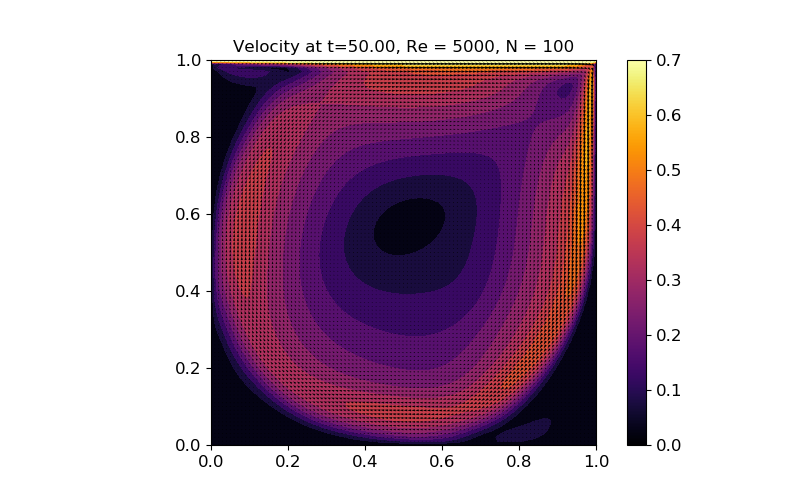
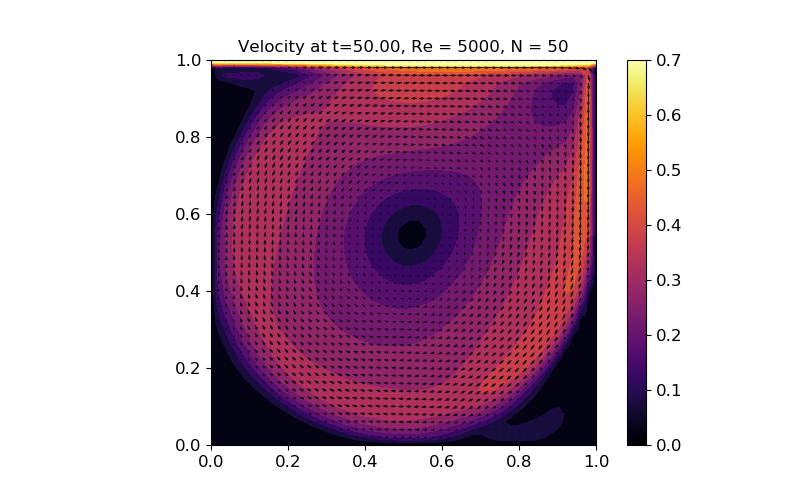
Changed plots from python to match with openfoam

Changed region(s): [[0.25, 0.06, 0.75, 0.9]]

diff --git a/python/main.py b/python/main.py
@@ -29,13 +29,16 @@ from src import tic, toc
 anim = False  # Save animation
 
 
-Re = 100000
+Pr = 0.71
+Re = 100
+# Ri = 0. 
 dt = 0.001
 Tf = 50
 Lx = 1.
 Ly = 1.
 Nx = 50
 Ny = 50
+namp = 0.
 ig = 20
 
 #%% Discretization in space and time, and definition of boundary conditions
@@ -57,6 +60,9 @@ uW = avg(y)*0;  uW = uW[np.newaxis,:];       vW = y*0;  vW = vW[np.newaxis,:];
 uE = avg(y)*0;  uE = uE[np.newaxis,:];       vE = y*0;    vE = vE[np.newaxis,:];
 
 
+
+tN = 100; tS = 10
+
 #%% Pressure correction and pressure Poisson equation
 
 # Compute system matrices for pressure 
@@ -73,6 +79,9 @@ Lps_lu = splu(Lp)
 U = np.zeros((Nx-1,Ny))
 V = np.zeros((Nx,Ny-1))
 
+T = 0.5 + \
+    namp*(np.random.rand(Nx,Ny)-0.5); 
+
 #%% Main time-integration loop. Write output file "cavity.mp" if
 
 if (ig>0) and anim:
@@ -85,7 +94,7 @@ if (ig>0) and anim:
 tic()
 
 #Define probe
-cases = [100000]
+cases = [25,250,5000]
 uvel = np.zeros((Nit+1, len(cases)))
 
 for i, Re in enumerate(cases):
@@ -156,22 +165,22 @@ for i, Re in enumerate(cases):
 
     if (ig>0) and anim:
         writer.finish()
+    #%% Visualization of the flow fiels at the end time
 
-#%% Visualization of the flow fiels at the end time
+    Ua = np.hstack( (uS,avg(np.vstack((uW,U,uE)),1),uN));
+    Va = np.vstack((vW,avg(np.hstack((vS,V,
+                                        vN)),0),vE));
+    plt.figure()
+    normalizer = matplotlib.colors.Normalize(0,0.7)
+    plt.contourf(x,y,np.sqrt(Ua**2+Va**2).T,20,norm = normalizer, cmap = "inferno")
+    plt.quiver(x,y,Ua.T,Va.T,norm = normalizer, cmap = "inferno")
+    #plt.scatter(x[int(Nx/2)], y[int(Ny/2)], color='red') 
+    plt.gca().set_aspect(1.)
+    plt.colorbar(norm = normalizer, cmap = "inferno")
+    plt.title(f'Velocity at t={k*dt:.2f}, Re = {Re}, N = {Nx}')
+    plt.savefig(f'velocity_RE{Re}.png')
 
-Ua = np.hstack( (uS,avg(np.vstack((uW,U,uE)),1),uN));
-Va = np.vstack((vW,avg(np.hstack((vS,V,
-                                  vN)),0),vE));
-plt.figure()
-normalizer = matplotlib.colors.Normalize(0,0.7)
-plt.contourf(x,y,np.sqrt(Ua**2+Va**2).T,20,norm = normalizer, cmap = "inferno")
-plt.quiver(x,y,Ua.T,Va.T,norm = normalizer, cmap = "inferno")
-plt.scatter(x[int(Nx/2)], y[int(Ny/2)], color='red') 
-plt.gca().set_aspect(1.)
-plt.colorbar(norm = normalizer, cmap = "inferno")
-plt.title(f'Velocity at t={k*dt:.2f}, Re = {Re}, N = {Nx}')
-plt.savefig('velocity.png')
-plt.show()
+
 """
 """
 #%% Compute divergence on cell centres
@@ -179,7 +188,7 @@ plt.show()
 # compute divergence on cell centres
 div = (np.diff( np.vstack( (uW,U, uE)),axis=0)/hx + np.diff( np.hstack(( vS, V, vN)),axis=1)/hy)
 plt.figure()
-plt.pcolor(avg(x),avg(y),div.T, cmap = "inferno")
+plt.pcolor(avg(x),avg(y),div.T, cmap = "inferno")#,shading='nearest')
 plt.gca().set_aspect(1.)
 plt.colorbar(norm = normalizer, cmap = "inferno")
 plt.title(f'Divergence at t={k*dt:.2f}, Re = {Re}, N = {Nx}')
